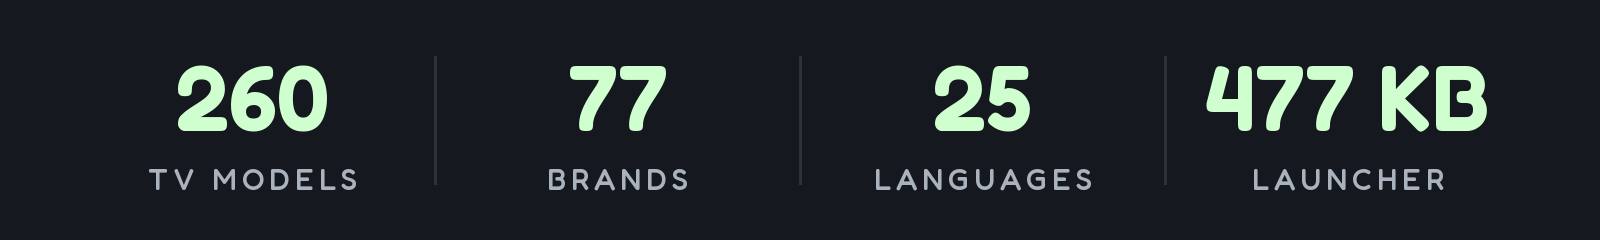
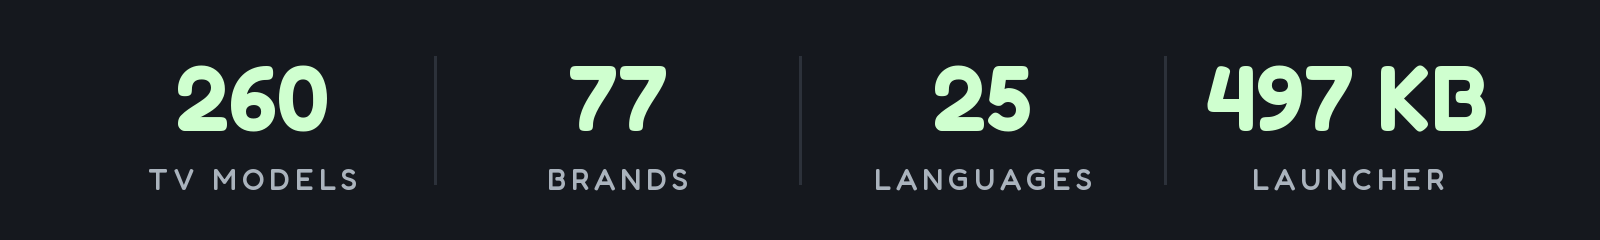
README: the launcher is about 497 KB after Round U; card redrawn

diff --git a/tools/readme_stats.py b/tools/readme_stats.py
@@ -12,7 +12,7 @@ except ImportError:
     sys.exit("readme_stats.py needs Pillow: tools/venv/bin/pip install -r tools/requirements-perf.txt")
 
 FONT, OUT = sys.argv[1], sys.argv[2]
-STATS = [("260", "TV MODELS"), ("77", "BRANDS"), ("25", "LANGUAGES"), ("477 KB", "LAUNCHER")]
+STATS = [("260", "TV MODELS"), ("77", "BRANDS"), ("25", "LANGUAGES"), ("497 KB", "LAUNCHER")]
 W, H = 1600, 240
 img = Image.new("RGB", (W, H), "#15181e"); d = ImageDraw.Draw(img)
 def f(size, wt):
